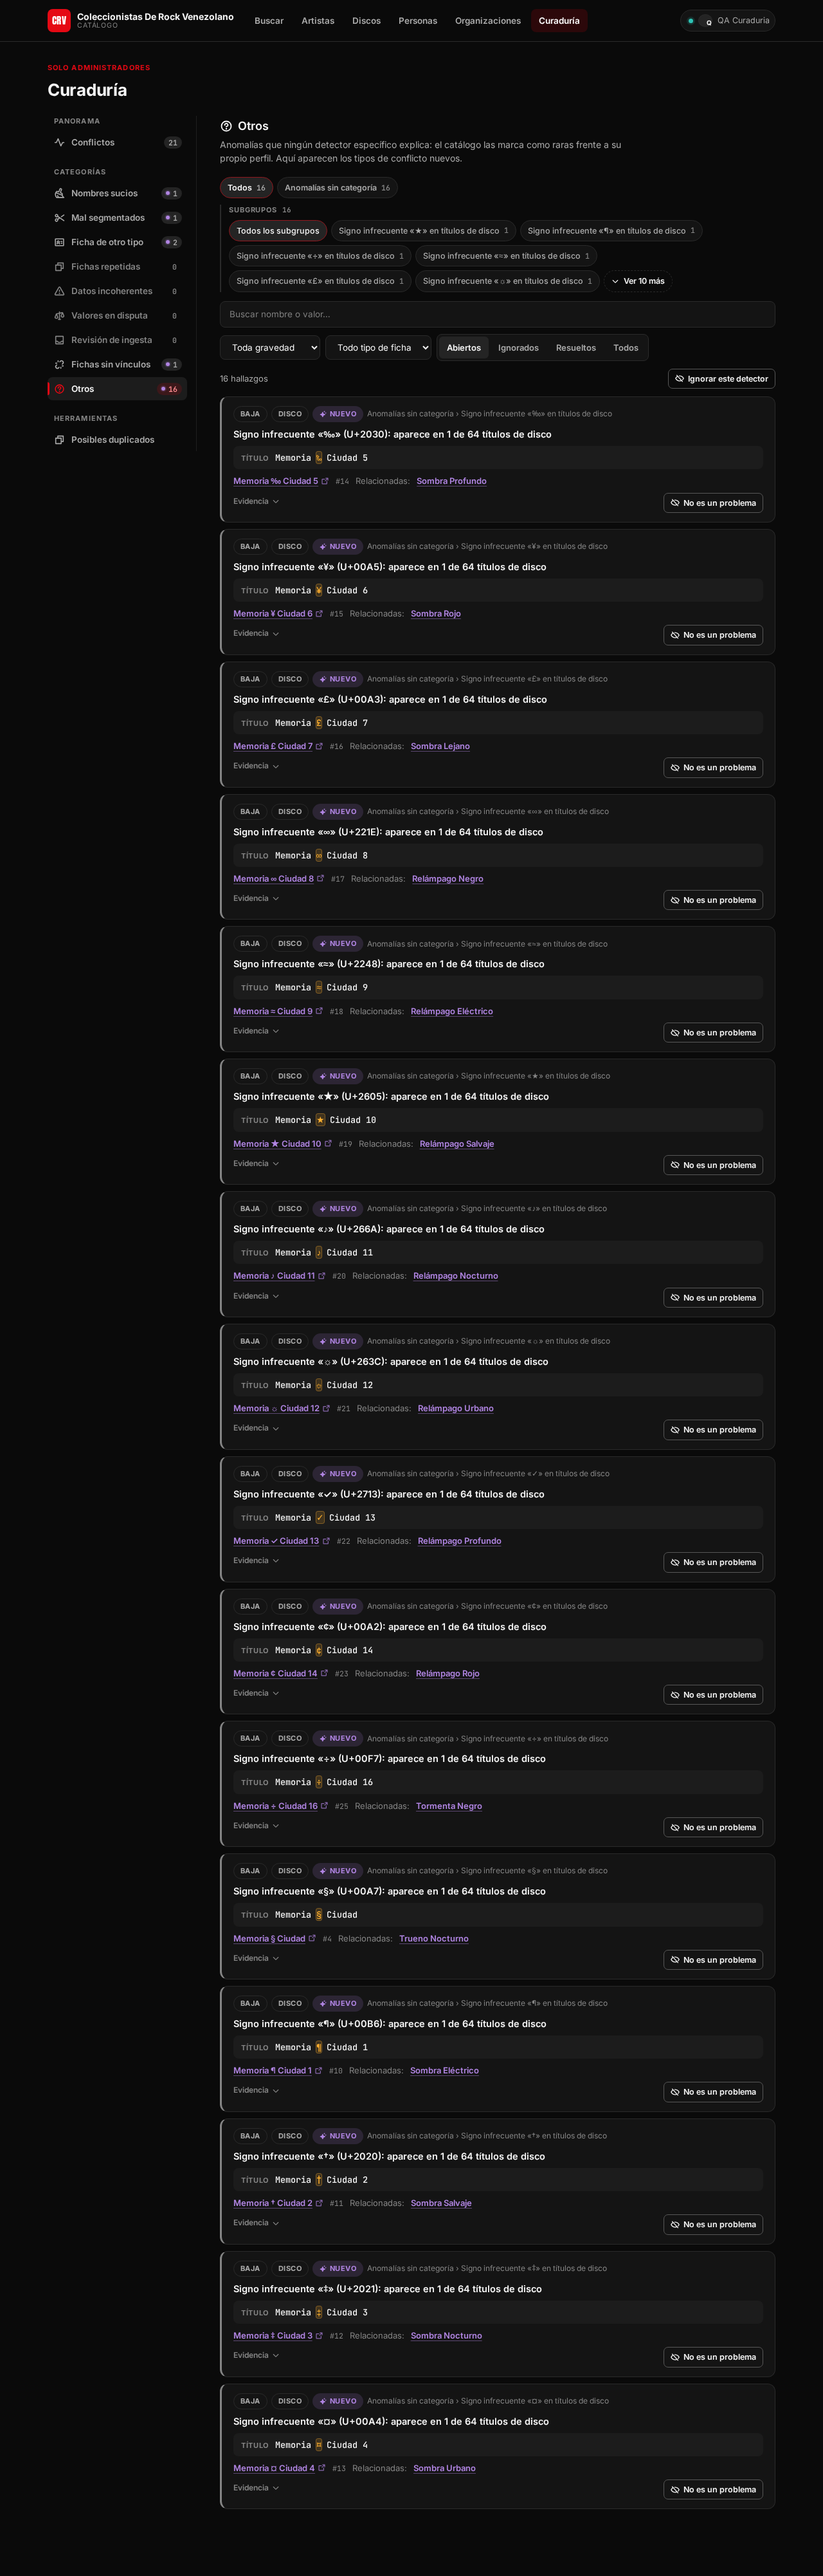
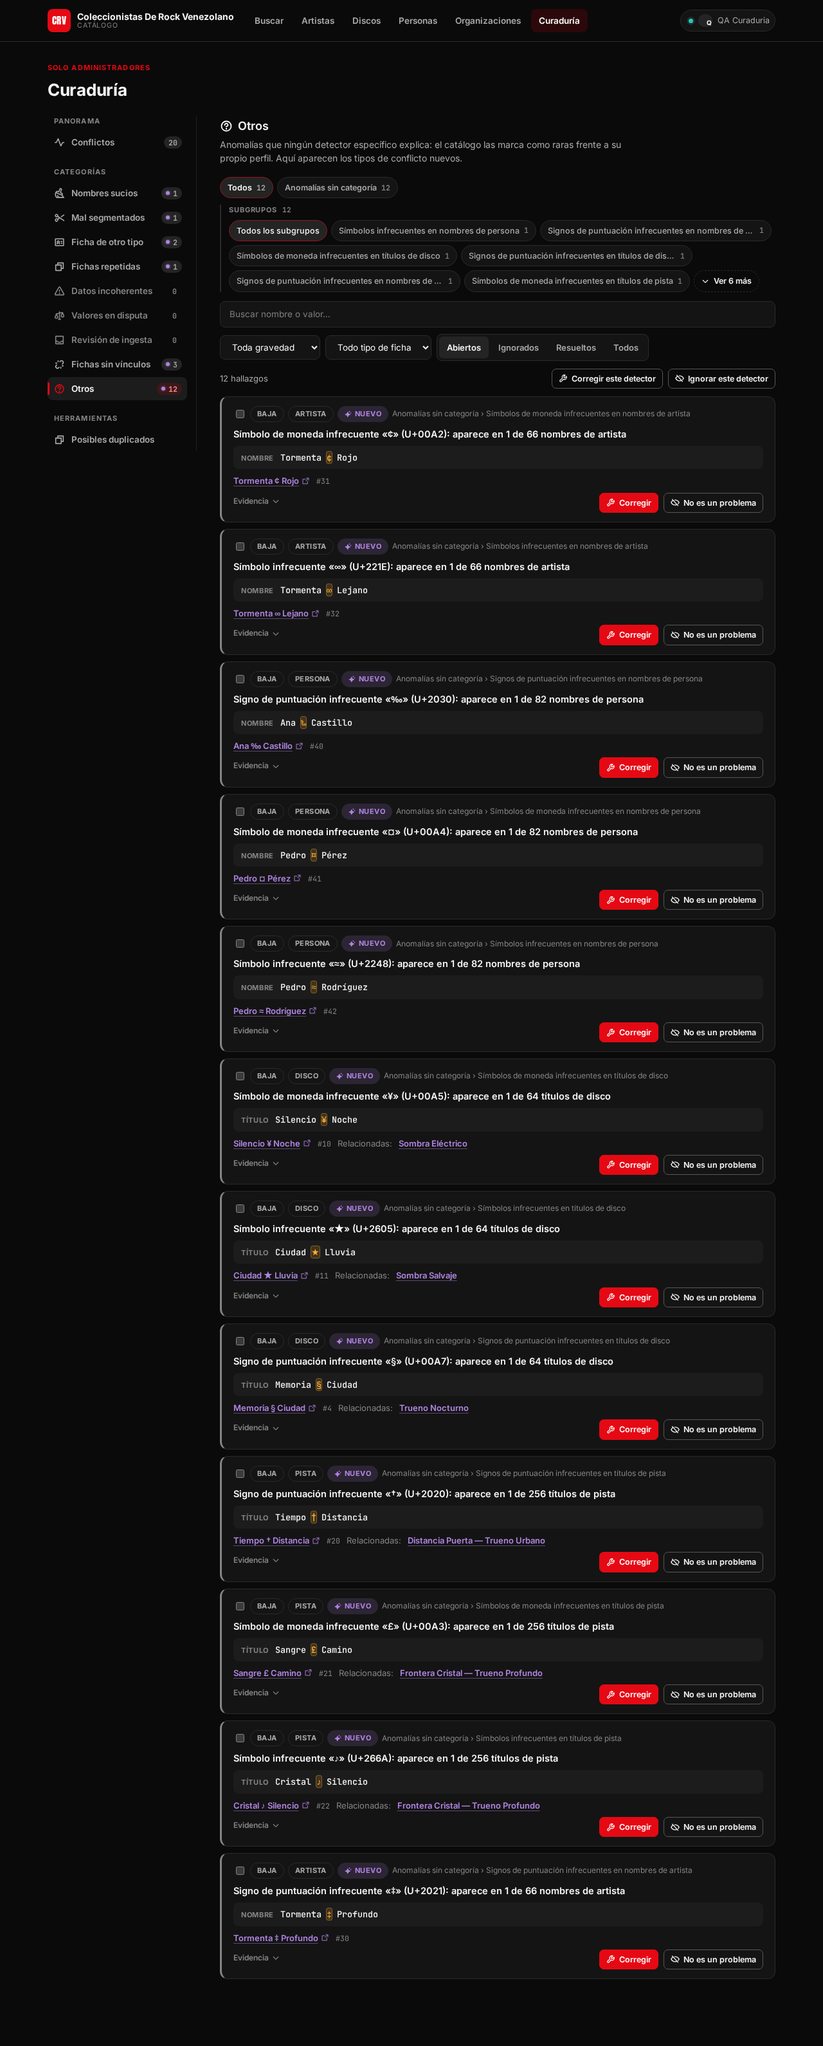
test(qa): QA visual de Curaduría con motivo al ignorar y pares distintos
«Otros» siembra signos de tres clases en cuatro campos (subgrupos por
clase), el ignorado exige motivo y «Son distintas» guarda el par.
Capturas regeneradas y nuevas: diálogo de motivo y «Son distintas».

diff --git a/web/tests/visual/curation-qa.ts b/web/tests/visual/curation-qa.ts
@@ -8,8 +8,9 @@
 //
 // Comprueba lo que no se ve en una captura: menú lateral por categoría con
 // «Otros» (plegado en un botón a 400 px), subgrupos de «Otros» que se despliegan
-// por tandas, sin overflow horizontal, sin errores de consola, y que «No es un
-// problema» guarda la decisión.
+// por tandas, sin overflow horizontal, sin errores de consola, que «No es un
+// problema» pide un motivo y guarda la decisión, y que «Son distintas» guarda el
+// par (PLAN_CURADURIA E2).
 import { spawn, type ChildProcess } from "node:child_process";
 import { createServer } from "node:net";
 import { randomBytes, scrypt as scryptCallback } from "node:crypto";
@@ -106,13 +107,39 @@ async function seed(): Promise<{ dirtyArtist: number }> {
   await pool.query("INSERT INTO public.album_credits(album_id, person_id, credit_type, role) VALUES(2, $1, 'recording', 'Grabación')", [studioPerson]);
   await pool.query("INSERT INTO public.album_credits(album_id, organization_id, credit_type, role) VALUES(3, $1, 'recording', 'Grabación')", [org]);
   await one("INSERT INTO public.persons(name) VALUES('4:39') RETURNING id");
-  // Muchos signos raros distintos en títulos de disco: «Otros» recibe decenas
-  // de subgrupos, el caso que se despliega por tandas.
-  const rareSigns = ["¶", "†", "‡", "¤", "‰", "¥", "£", "∞", "≈", "★", "♪", "☼", "✓", "¢", "µ", "÷"];
-  for (const [offset, sign] of rareSigns.entries()) {
-    await pool.query("UPDATE public.albums SET title = $2 WHERE id = $1", [10 + offset, `Memoria ${sign} Ciudad ${offset + 1}`]);
+  // Signos raros de cada clase (puntuación, moneda, símbolo) en cuatro campos:
+  // «Otros» agrupa por clase y campo (B1), así que recibe 12 subgrupos, el caso
+  // que se despliega por tandas. El signo va en medio para que ningún detector
+  // de forma (signo colgante) lo explique antes.
+  const rareSigns: Array<[table: string, column: string, id: number, sign: string]> = [
+    ["albums", "title", 10, "¥"], ["albums", "title", 11, "★"],
+    ["tracks", "title", 20, "†"], ["tracks", "title", 21, "£"], ["tracks", "title", 22, "♪"],
+    ["artists", "name", 30, "‡"], ["artists", "name", 31, "¢"], ["artists", "name", 32, "∞"],
+    ["persons", "name", 40, "‰"], ["persons", "name", 41, "¤"], ["persons", "name", 42, "≈"],
+  ];
+  for (const [table, column, id, sign] of rareSigns) {
+    // Nombres de tabla y columna fijos de esta lista, no vienen de fuera.
+    await pool.query(`UPDATE public.${table} SET ${column} = regexp_replace(${column}, ' ', $2) WHERE id = $1`, [id, ` ${sign} `]);
   }
+  // Un par de artistas escritos de otra forma, para «Son distintas».
+  await one("INSERT INTO public.artists(name, origin_city) VALUES('Los Relámpago QA', 'Caracas') RETURNING id");
+  await one("INSERT INTO public.artists(name, origin_city) VALUES('Relámpago QA', 'Maracay') RETURNING id");
   return { dirtyArtist };
+}
+
+async function lastScanId(): Promise<number> {
+  return Number((await getPool().query<{ id: string }>("SELECT coalesce(max(id), 0)::text AS id FROM ingest.curation_scans")).rows[0]!.id);
+}
+
+/** Espera el análisis de verificación que dispara una escritura de la API (posterior a `afterId`). */
+async function waitForCorrectionScan(afterId: number): Promise<void> {
+  const deadline = Date.now() + 20_000;
+  while (Date.now() < deadline) {
+    const { rows } = await getPool().query("SELECT 1 FROM ingest.curation_scans WHERE trigger = 'correccion' AND status = 'ok' AND id > $1", [afterId]);
+    if (rows.length) break;
+    await new Promise((resolve) => setTimeout(resolve, 200));
+  }
+  await waitForCurationScans();
 }
 
 async function waitForApp(page: Page): Promise<void> {
@@ -233,32 +260,61 @@ try {
       await page.screenshot({ path: path.join(outputDir, `${viewport.name}-otros-mas.png`), fullPage: true });
       await assertNoOverflow(page, `${viewport.name} otros`);
 
-      // 4. «No es un problema» guarda la decisión.
+      // 4. «No es un problema» pide un motivo y guarda la decisión con él.
       await page.goto(`${webUrl}/curaduria/categoria/ficha_de_otro_tipo`, { waitUntil: "domcontentloaded" });
       const ignoreButton = page.getByRole("button", { name: "No es un problema" }).first();
       await ignoreButton.waitFor({ timeout: 20_000 });
       const before = await page.getByRole("button", { name: "No es un problema" }).count();
       await ignoreButton.click();
+      const ignoreDialog = page.getByRole("dialog");
+      // Sin motivo no se guarda.
+      await ignoreDialog.getByRole("button", { name: "No es un problema" }).click();
+      await ignoreDialog.getByText("Elige un motivo.").waitFor();
+      await ignoreDialog.getByLabel(/Falso positivo/u).check();
+      await ignoreDialog.getByLabel(/Nota/u).fill("QA: el detector se equivocó");
+      if (await ignoreDialog.getByText("Elige un motivo.").count()) throw new Error(`${viewport.name}: el aviso de motivo sigue tras elegir uno`);
+      await page.waitForTimeout(400);
+      await page.screenshot({ path: path.join(outputDir, `${viewport.name}-ignorar-motivo.png`), fullPage: true });
+      await assertNoOverflow(page, `${viewport.name} diálogo de motivo`);
+      await ignoreDialog.getByRole("button", { name: "No es un problema" }).click();
       await page.getByText("Hallazgo ignorado", { exact: false }).first().waitFor();
       await page.waitForFunction((count) => document.querySelectorAll(".cfind").length < count, before);
       await assertNoOverflow(page, `${viewport.name} ficha_de_otro_tipo`);
+      const reasons = await getPool().query<{ n: string }>(
+        "SELECT count(*)::text AS n FROM ingest.curation_findings WHERE status = 'ignored' AND ignore_reason = 'falso_positivo' AND ignore_note = 'QA: el detector se equivocó'");
+      if (Number(reasons.rows[0]!.n) !== index + 1) throw new Error(`${viewport.name}: el ignorado no guardó su motivo`);
+
+      // 4b. «Son distintas» guarda el par (solo la primera vez: después ya no está abierto).
+      if (index === 0) {
+        await page.goto(`${webUrl}/curaduria/categoria/fichas_repetidas`, { waitUntil: "domcontentloaded" });
+        const distinctButton = page.getByRole("button", { name: "Son distintas" }).first();
+        await distinctButton.waitFor({ timeout: 20_000 });
+        const beforeDistinct = await lastScanId();
+        await distinctButton.click();
+        const distinctDialog = page.getByRole("dialog");
+        await distinctDialog.getByLabel(/Motivo/u).fill("QA: bandas distintas de ciudades distintas");
+        await page.waitForTimeout(400);
+        await page.screenshot({ path: path.join(outputDir, `${viewport.name}-son-distintas.png`), fullPage: true });
+        await distinctDialog.getByRole("button", { name: "Son distintas" }).click();
+        await page.getByText("Par declarado distinto", { exact: false }).first().waitFor();
+        const pairs = await getPool().query<{ decided_by: string }>("SELECT decided_by FROM ingest.curation_distinct_pairs");
+        if (pairs.rows.length !== 1) throw new Error(`${viewport.name}: se esperaba un par declarado distinto, hay ${pairs.rows.length}`);
+        // Su verificación termina antes de la corrección del paso 5, para no confundirlas.
+        await waitForCorrectionScan(beforeDistinct);
+        await assertNoOverflow(page, `${viewport.name} fichas_repetidas`);
+      }
 
       // 5. Corrección por la API (solo la primera vez): quita el invisible pero
       //    mete la ciudad en el nombre. El detector debe verificarla solo.
       if (index === 0) {
+        const beforePatch = await lastScanId();
         const response = await fetch(`${apiAddress}/artists/${dirtyArtist}`, {
           method: "PATCH",
           headers: { authorization: `Bearer ${QA_TOKEN}`, "x-crv-operator": "QA Curaduria", "content-type": "application/json", origin: webUrl },
           body: JSON.stringify({ name: "Trueno Negro (Caracas)" }),
         });
         if (!response.ok) throw new Error(`la corrección falló: ${response.status} ${await response.text()}`);
-        const deadline = Date.now() + 20_000;
-        while (Date.now() < deadline) {
-          const { rows } = await getPool().query("SELECT 1 FROM ingest.curation_scans WHERE trigger = 'correccion' AND status = 'ok'");
-          if (rows.length) break;
-          await new Promise((resolve) => setTimeout(resolve, 200));
-        }
-        await waitForCurationScans();
+        await waitForCorrectionScan(beforePatch);
       }
       await page.goto(`${webUrl}/curaduria`, { waitUntil: "domcontentloaded" });
       await page.getByText(/desencadenados? por la corrección/u).first().waitFor({ timeout: 20_000 });
